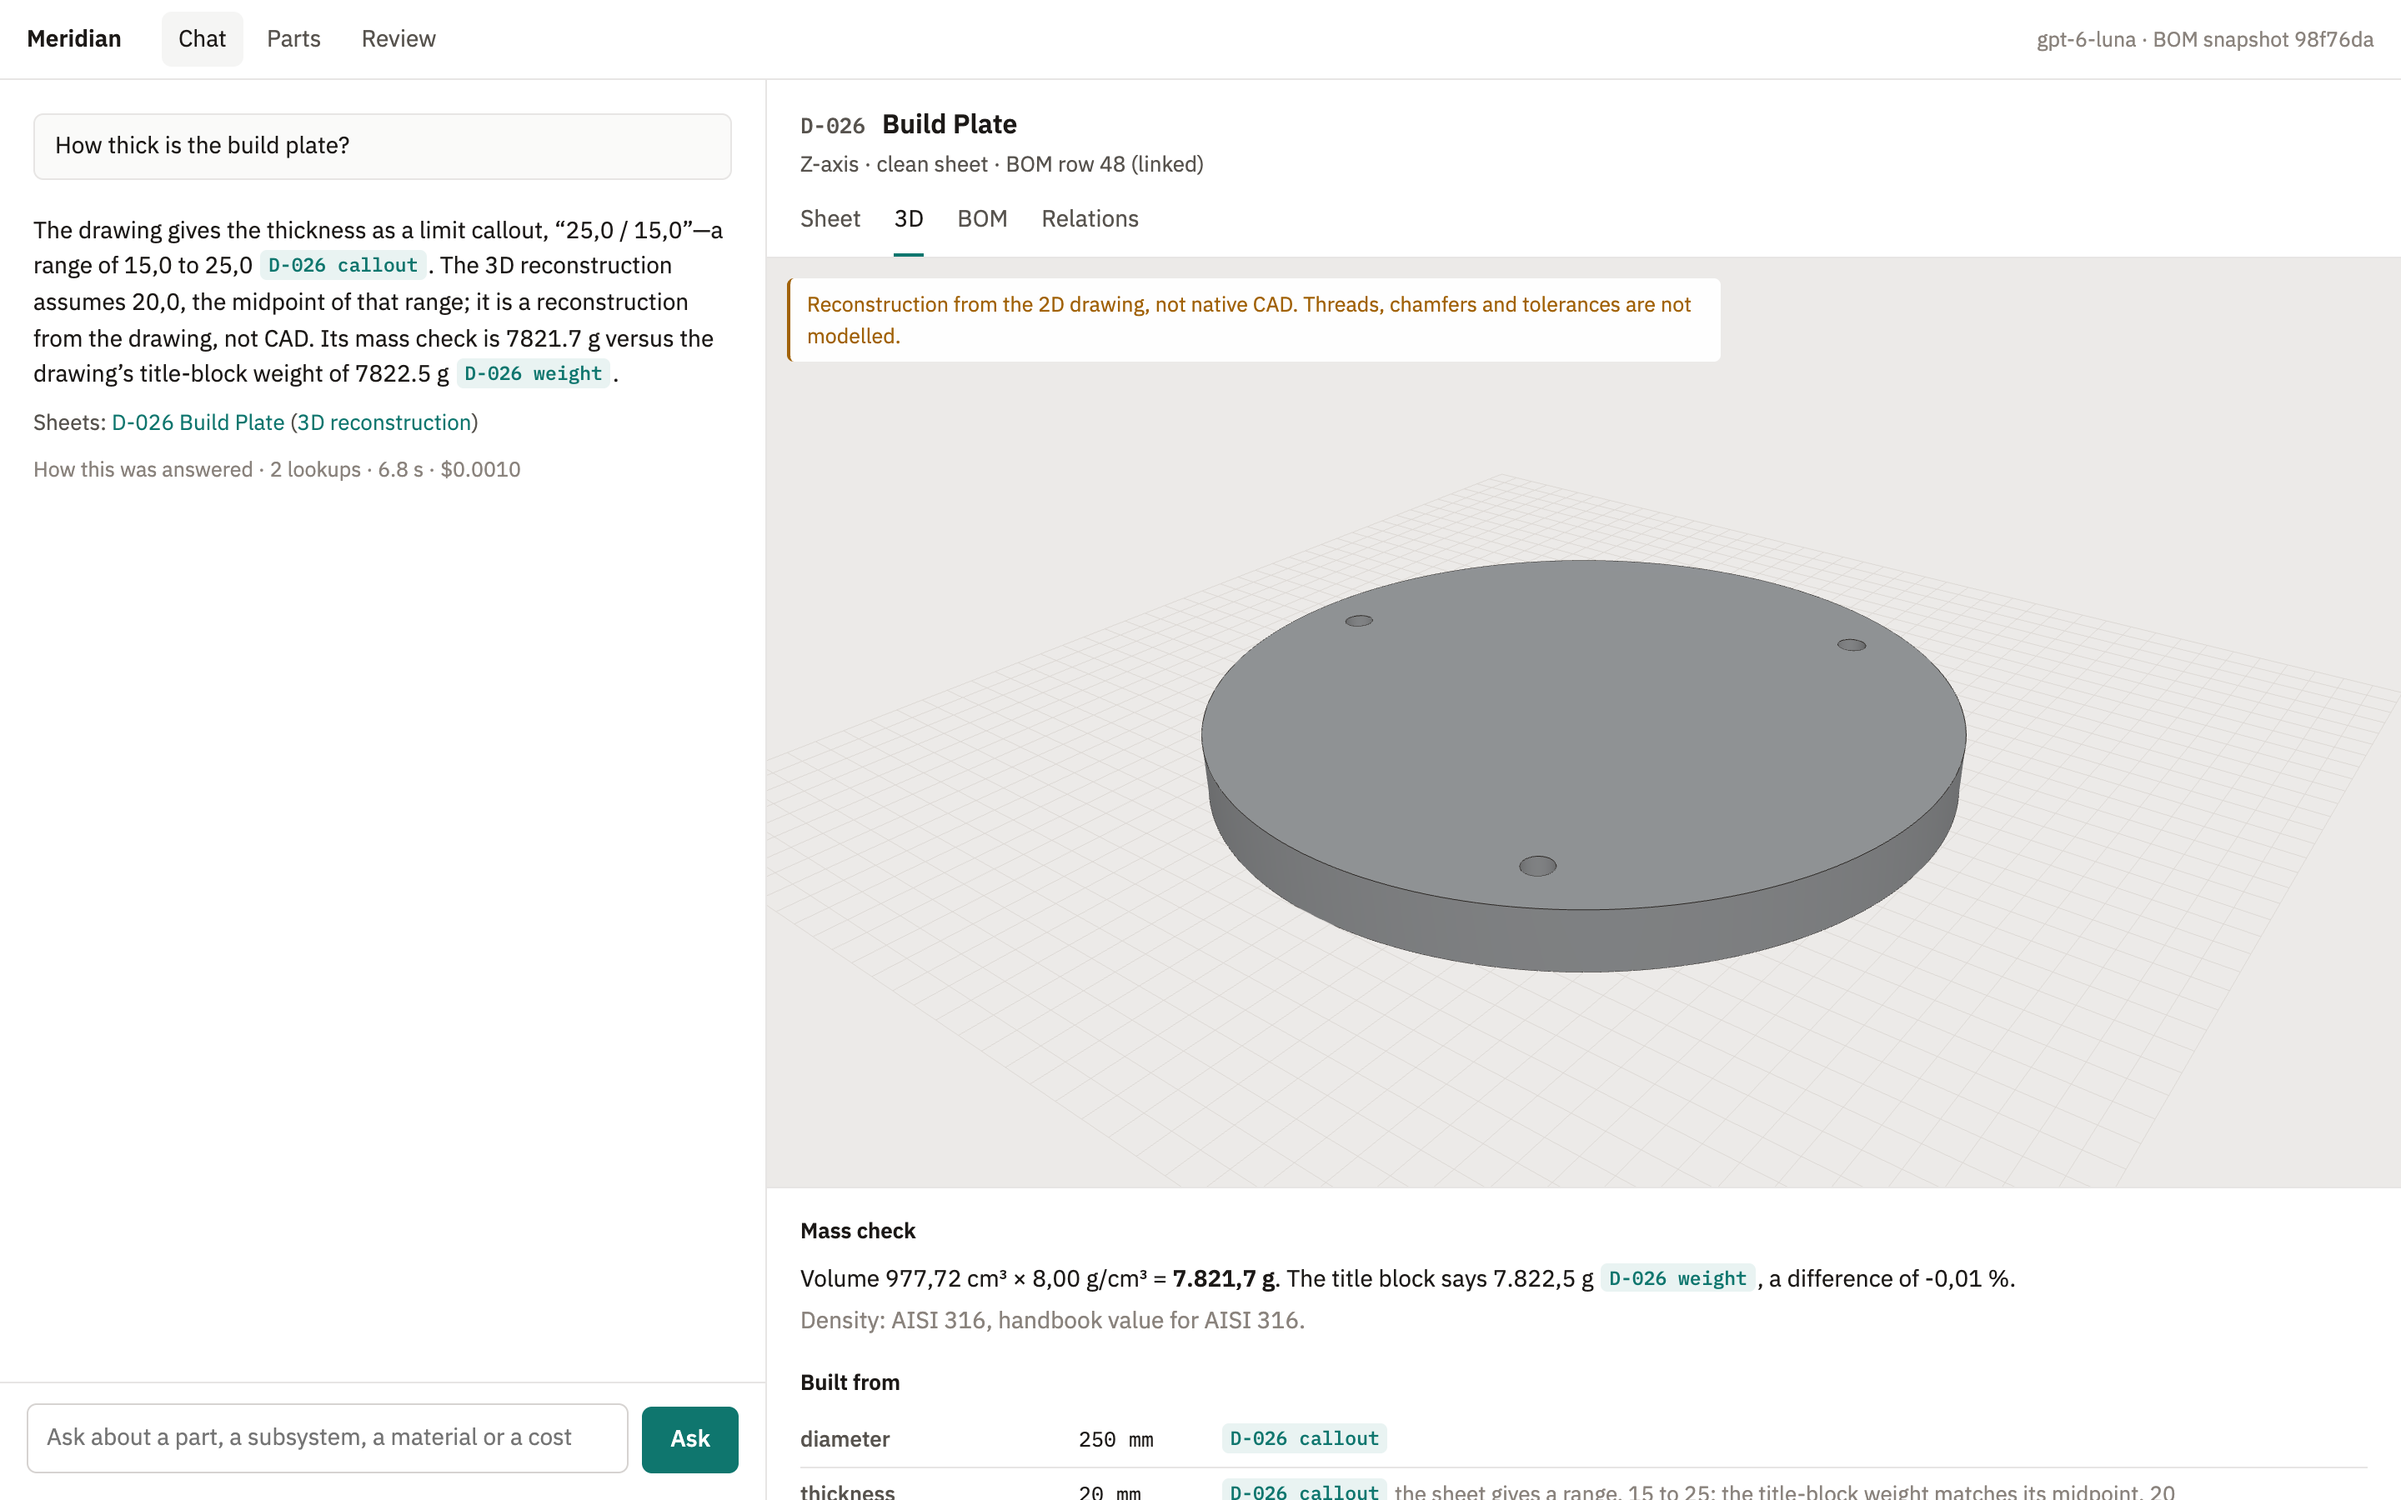
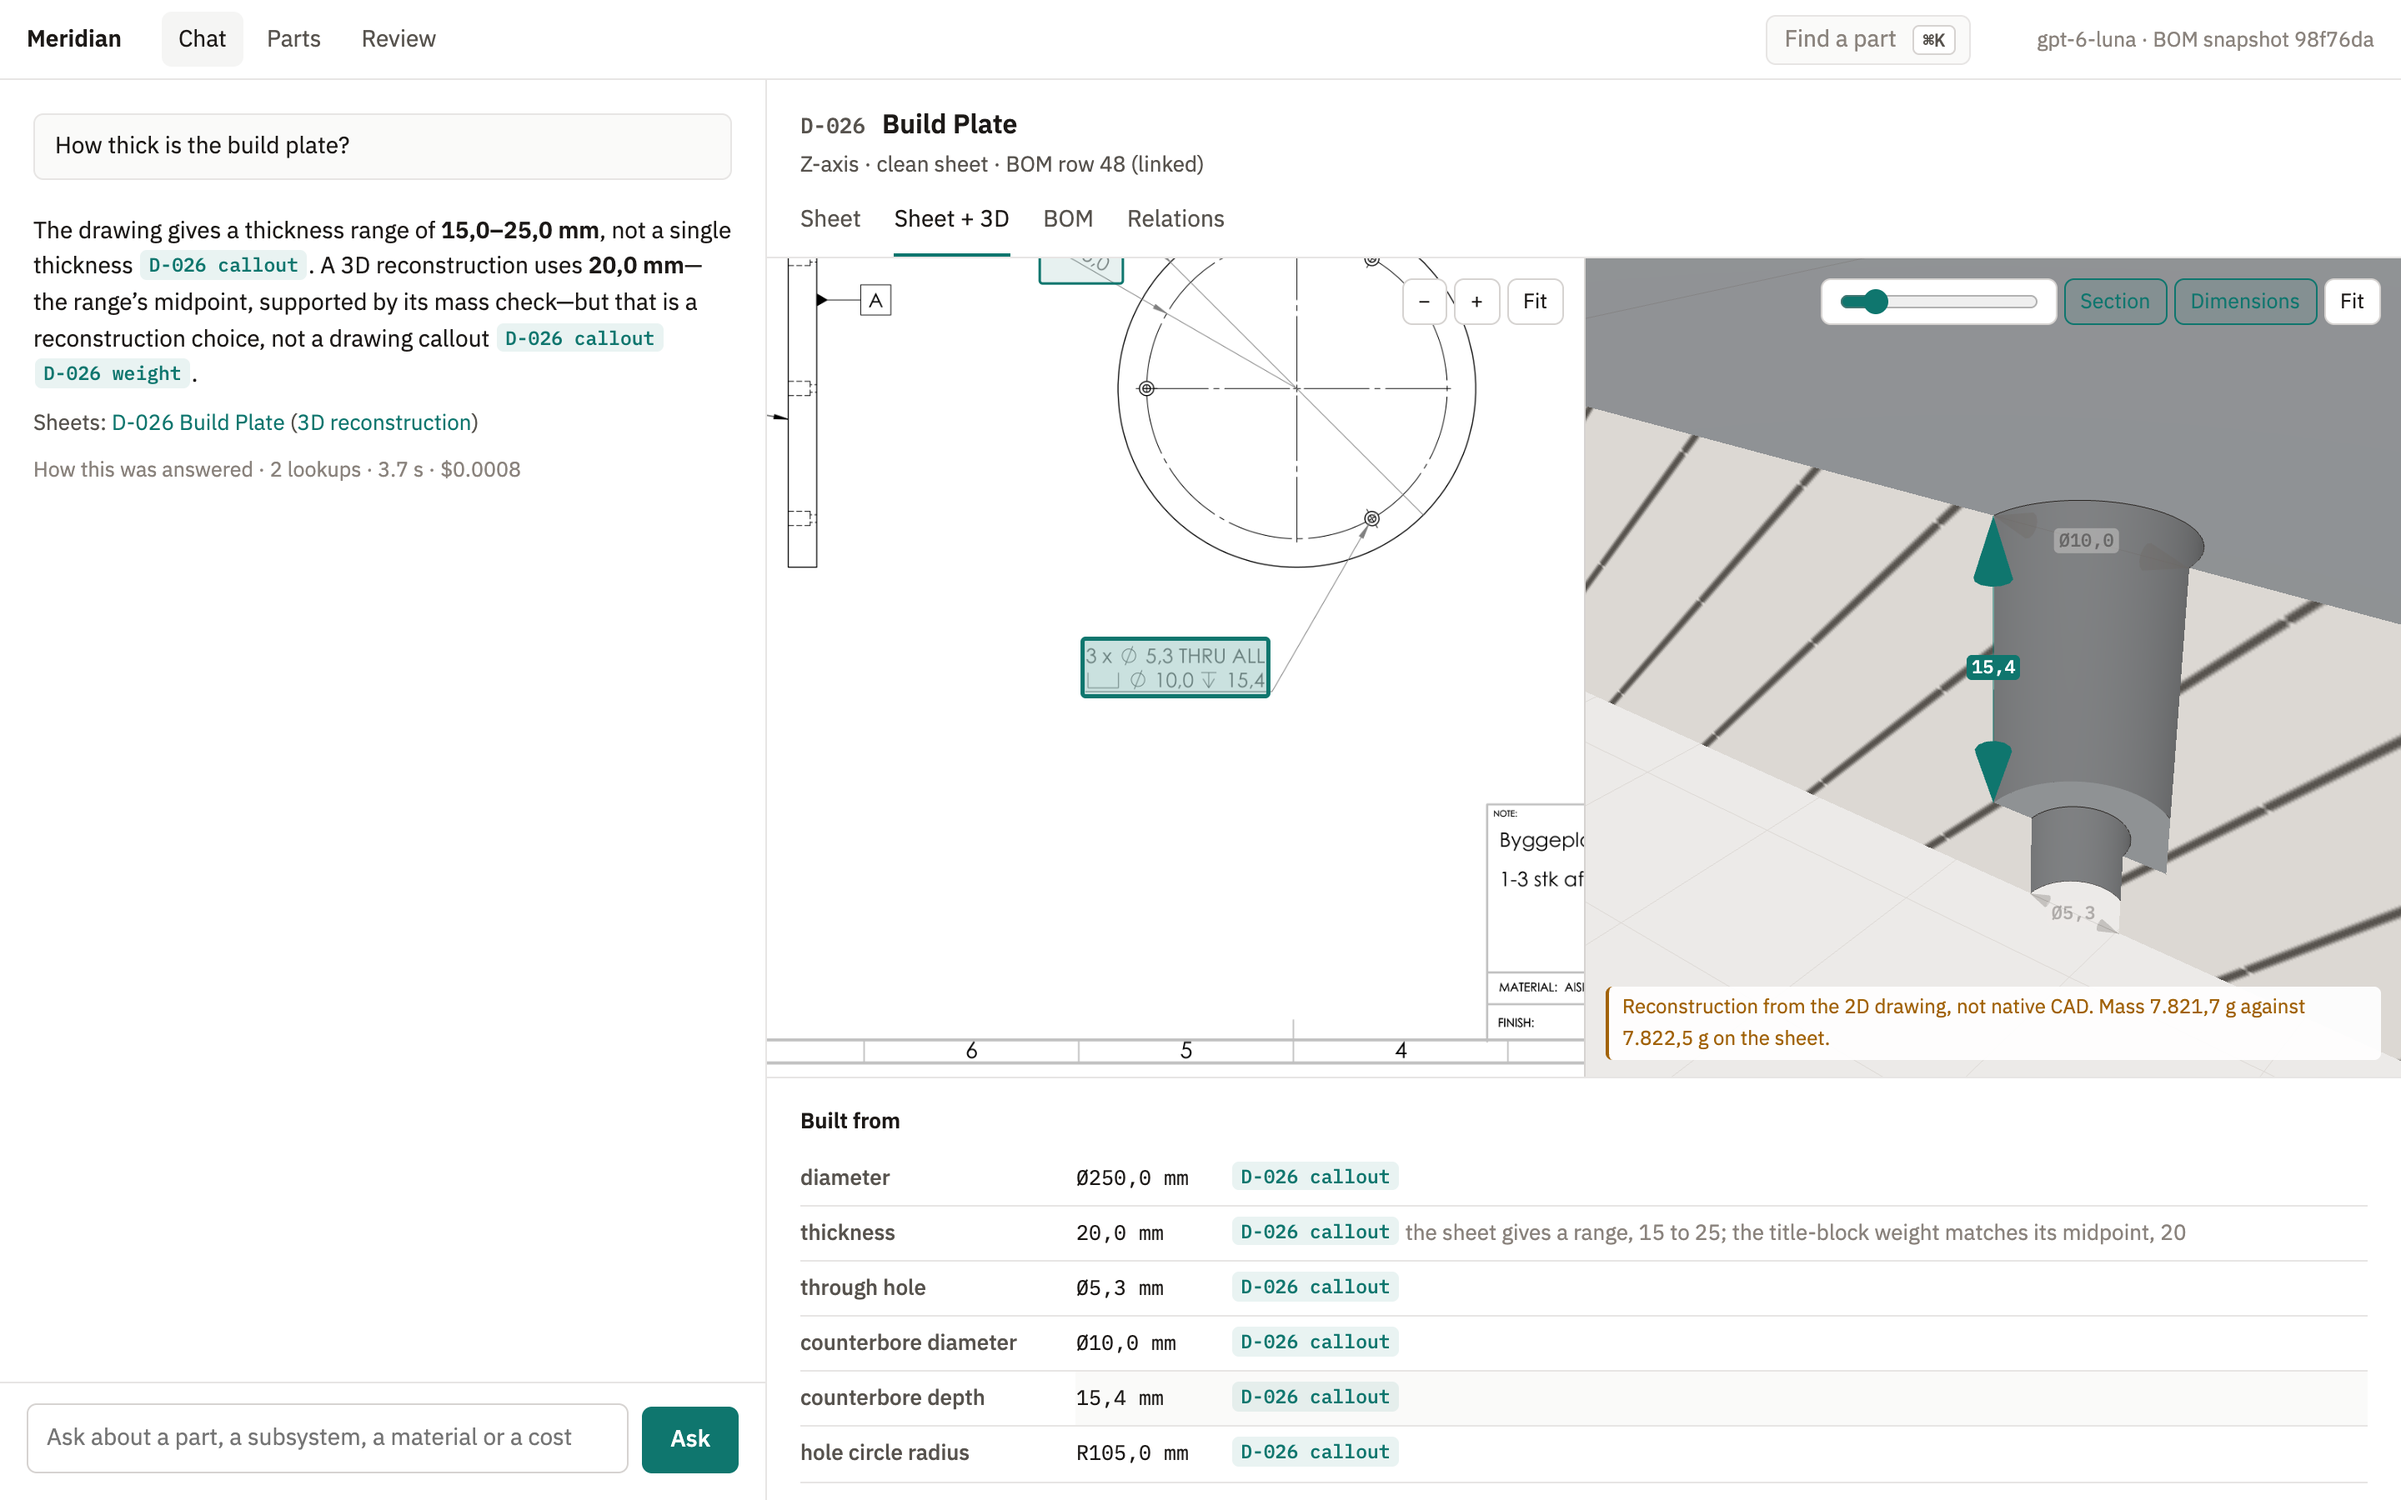
Screenshots and docs for the linked sheet and 3D view
All screenshots retaken against a throwaway review log, so they show the
current bar and panel. The README now leads with the sheet and model side
by side, and says how to use them; DECISIONS records why they point at
each other and why there is a section view.

diff --git a/README.md b/README.md
@@ -7,7 +7,7 @@ when the part has one. When the sources disagree, or a scan cannot be read, the 
 
 The assignment brief is in [docs/brief.md](docs/brief.md).
 
-![An answer that raises a datasheet conflict, with the drawing opened beside it](docs/screenshots/chat-conflict.png)
+![An answer about the recoater mount block, with its sheet and 3D reconstruction side by side. The sheet's 30,0 callout is under the pointer, and the same dimension is lit on the model and in the table](docs/screenshots/model-3d.png)
 
 ## Running it
 
@@ -35,7 +35,7 @@ The example questions on the chat page are a good start. Some that show particul
 
 | Ask | What to look for |
 |---|---|
-| Show me the recoater mount block. | Opens the drawing and the 3D reconstruction in the same turn |
+| Show me the recoater mount block. | Opens the drawing, with a link to the sheet and the 3D reconstruction side by side |
 | How thick is the heating element plate? | The sheet prints a limit, 3,0 over 2,0; the model was built at 2,0, the value the title-block weight matches |
 | Which drawing documents the recoater stage plate? | Names D-014 and raises that its BOM row lists D-013's file |
 | Is the recoater arm made of stainless steel? | Aluminium by the BOM and the sheet's note; the scanned material field is disputed, and both readings are quoted |
@@ -43,7 +43,15 @@ The example questions on the chat page are a good start. Some that show particul
 | Is the BOM's motor plate drawing D-029 or D-030? | Says the evidence cannot tell, and why |
 | What did the Box subsystem cost, and what is missing from that figure? | A total from a dated snapshot, with the rows that have no cost |
 
-Clicking a citation opens its source in the panel on the right, with the region of the sheet outlined.
+Clicking a citation opens its source in the panel on the right, with the region of the sheet outlined. ⌘K (Ctrl K)
+finds any drawing or BOM row by name.
+
+### The sheet and the model
+
+Five parts have a **Sheet + 3D** tab. Every dimension the model was built from is boxed on the sheet where it was read
+and drawn on the model the way the sheet gives it. Point at either, or at a row of the table below, and the other two
+light up; click to zoom the sheet to the callout and bring the model in to the dimension. **Section** cuts the part
+like the sheet's section views, hatched, through the hole worth looking at; the slider moves the cut.
 
 ### A correction, end to end
 
@@ -98,7 +106,9 @@ number that is in no tool result. Which sheet and 3D view to open is decided on 
 called.
 
 **3D.** Five clean, simple parts are rebuilt from their dimensions with constructive solid geometry
-(`meridian/geometry.py`). Each dimension cites its callout, or says how it was measured or why it was assumed. The computed mass is checked against the weight
+(`meridian/geometry.py`). Each dimension cites its callout, or says how it was measured or why it was assumed, and
+says where it is drawn on the model and where it sits on the sheet; a test checks that every drawn dimension is as
+long as its label. The computed mass is checked against the weight
 SolidWorks printed in the title block. All five are within 0.75 %. The view says it is a reconstruction, not CAD.
 
 **Corrections** are events. Accepting one adds an observation that supersedes the original for display. The original
@@ -214,11 +224,14 @@ A scanned sheet where the two readers disagree:
 
 ![Disputed readings on a scanned title block](docs/screenshots/scan-disputed.png)
 
-The 3D view, with what each dimension was read from and the mass check:
+The build plate in section, after clicking the counterbore depth in the table: the sheet has zoomed to the hole
+callout and the model to the counterbore, cut and hatched:
 
-![Heating element plate reconstruction](docs/screenshots/model-3d.png)
+![Build plate reconstruction in section](docs/screenshots/model-3d-build-plate.png)
 
-![Build plate reconstruction](docs/screenshots/model-3d-build-plate.png)
+An answer that raises a datasheet conflict, with the drawing opened beside it:
+
+![Datasheet conflict](docs/screenshots/chat-conflict.png)
 
 A correction proposed in chat, pending in review, accepted, and the answer afterwards:
 

diff --git a/DECISIONS.md b/DECISIONS.md
@@ -264,3 +264,20 @@ their date, and for anything else shows the part's evidence without prose.
 Sheets, 3D views, parts and review all work without a key. The evaluation
 runs against an empty review log of its own, and `MERIDIAN_VAR` does the same
 for a throwaway demo, so neither touches the real history.
+
+### The model and the sheet point at each other
+
+A 3D view next to a list of the dimensions it was built from says
+"reconstruction from 2D evidence"; it does not show it. Each dimension now
+carries where a drafter would draw it on the model and the box it was read
+from on the sheet, written in the same function as the solid. The panel puts
+the two side by side, and pointing at a callout, a drawn dimension or a table
+row lights up the other two. The placements are checked: every drawn
+dimension must be as long as its label. It has not failed yet; it would catch
+a placement that drifts from the number it labels.
+
+The section view is there because the interesting features are inside:
+D-026's counterbores and D-025's countersinks only show their depth when cut,
+which is why the sheets draw section views too. The cut face is found with the
+stencil buffer and hatched the way a section is.
+

diff --git a/EVALUATION.md b/EVALUATION.md
@@ -5,7 +5,7 @@ What I measured, how, and where it fails. Every number here can be reproduced:
 ```bash
 .venv/bin/python -m meridian score   # extraction and linking, no API calls
 .venv/bin/python -m meridian eval    # chat questions twice, baseline, correction scenario (~2 min, ~$0.13)
-.venv/bin/python -m pytest           # 51 tests on the parsing, settling, checking and correction rules
+.venv/bin/python -m pytest           # 84 tests: parsing, settling, checks, corrections, drawn dimensions
 ```
 
 Chat results are from `eval/runs/2026-10-02T063422Z/` unless a section says otherwise. Every answer,
